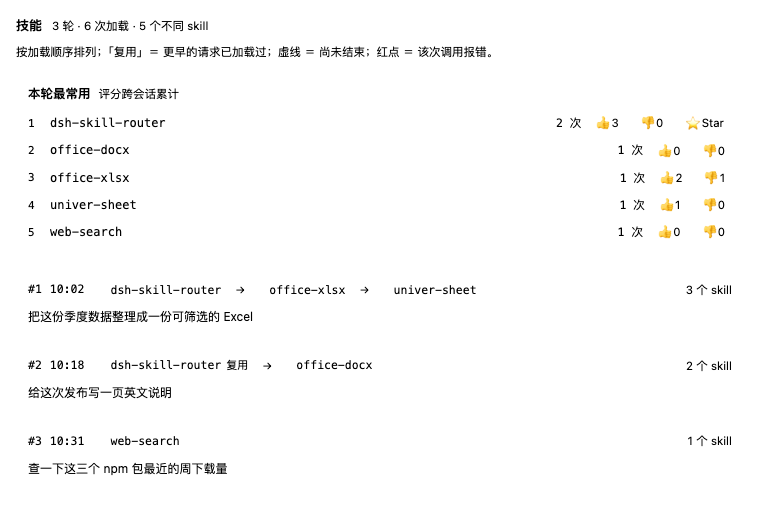
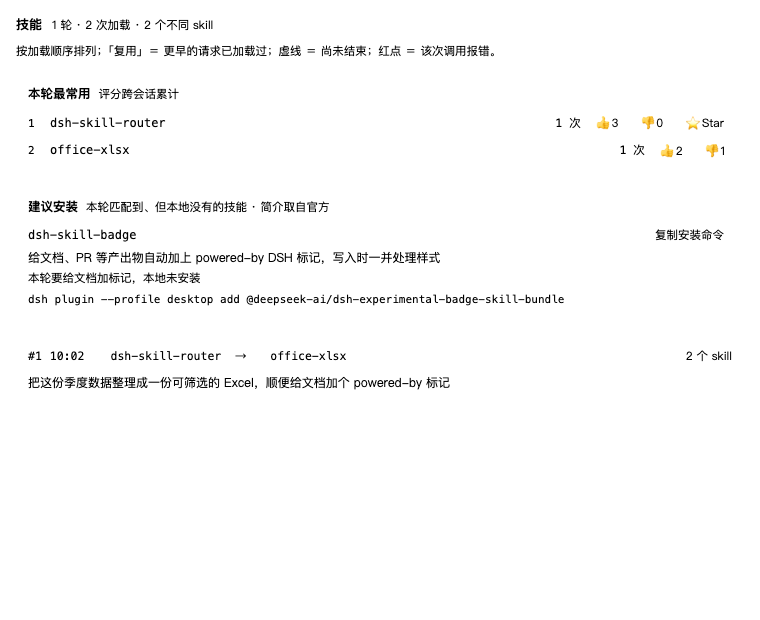
feat: 0.4.1 — 建议安装的技能带官方简介，便于识别
- 标记新增必填 desc 字段，取自官方 bundle / npm 的 description，40–60 字
- 面板按「名称 / 简介（最多两行）/ 为什么这次需要 / 安装命令」四层展示
- 缺 desc 的旧标记仍可解析，不崩也不留空行
- docs/skills-panel.png 换成含「建议安装」区块的演示图

diff --git a/client.js b/client.js
@@ -210,6 +210,7 @@ window.__ModuleLoader__.load({
               out.push({
                 skill: value.skill,
                 bundle: typeof value.bundle === 'string' ? value.bundle : '',
+                desc: typeof value.desc === 'string' ? value.desc : '',
                 why: typeof value.why === 'string' ? value.why : '',
               })
             } catch (error) {
@@ -428,8 +429,17 @@ window.__ModuleLoader__.load({
               }, copied === row.skill ? '已复制' : '复制安装命令')
               : h('span', { className: 'sr-cmd' }, '需在插件市场安装'),
           ),
+          row.desc.length > 0
+            ? h('div', {
+              title: row.desc,
+              style: { color: C.primary, fontSize: 12, lineHeight: 1.5, marginTop: 3, display: '-webkit-box', WebkitLineClamp: 2, WebkitBoxOrient: 'vertical', overflow: 'hidden' },
+            }, row.desc)
+            : null,
           row.why.length > 0
-            ? h('div', { style: { color: C.secondary, fontSize: 11.5, marginTop: 2, overflow: 'hidden', textOverflow: 'ellipsis', whiteSpace: 'nowrap' } }, row.why)
+            ? h('div', {
+              title: row.why,
+              style: { color: C.secondary, fontSize: 11.5, marginTop: 2, overflow: 'hidden', textOverflow: 'ellipsis', whiteSpace: 'nowrap' },
+            }, row.why)
             : null,
           command.length > 0
             ? h('div', { className: 'sr-cmd', style: { marginTop: 2 }, title: command }, command)
@@ -441,7 +451,7 @@ window.__ModuleLoader__.load({
       },
         h('div', { style: { display: 'flex', alignItems: 'baseline', gap: 8, marginBottom: 4 } },
           h('div', { style: { fontSize: 12.5, fontWeight: 600 } }, '建议安装'),
-          h('div', { style: { color: C.secondary, fontSize: 11.5 } }, '本轮匹配到、但本地没有的技能'),
+          h('div', { style: { color: C.secondary, fontSize: 11.5 } }, '本轮匹配到、但本地没有的技能 · 简介取自官方'),
         ),
         items,
       )
